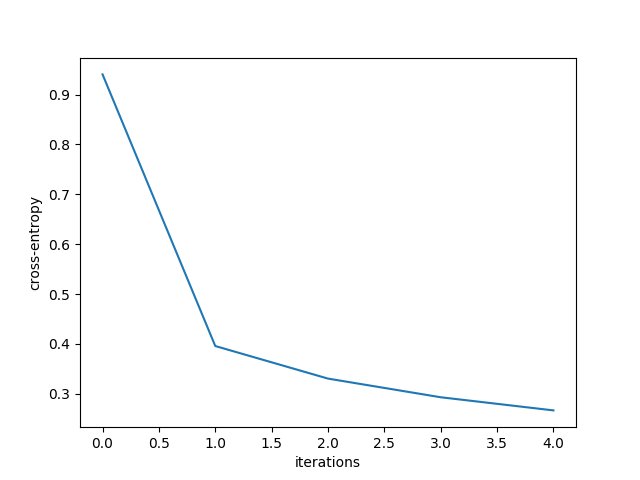
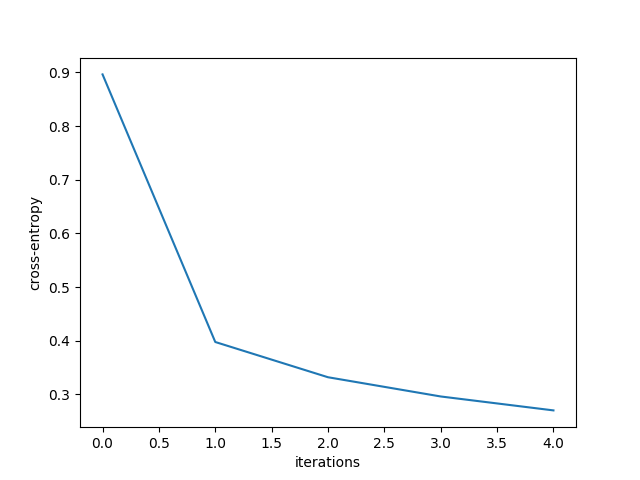
Project 2b3-2

diff --git a/CZ4042-Neural-Networks/Proj2/project2b_3_2.py b/CZ4042-Neural-Networks/Proj2/project2b_3_2.py
@@ -21,6 +21,18 @@ def init_weights(n_visible, n_hidden):
 def init_bias(n):
     return theano.shared(value=np.zeros(n,dtype=theano.config.floatX),borrow=True)
 
+#Momentum
+#Decay parameter ??
+def sgd_momentum(cost, params, lr=0.1, decay=0.0001, momentum=0.1):
+    grads = T.grad(cost=cost, wrt=params)
+    updates = []
+    for p, g in zip(params, grads):
+        v = theano.shared(p.get_value())
+        v_new = momentum*v - (g + decay*p) * lr
+        updates.append([p, p + v_new])
+        updates.append([v, v_new])
+        return updates
+
 trX, teX, trY, teY = mnist()
 
 trX, trY = trX[:12000], trY[:12000]
@@ -37,7 +49,8 @@ corruption_level=0.1
 training_epochs = 5
 learning_rate = 0.1
 batch_size = 128
-
+beta = 0.5
+rho = 0.05
 
 W1 = init_weights(28*28, 900)
 b1 = init_bias(900)
@@ -70,30 +83,35 @@ z2 = T.nnet.sigmoid(T.dot(y2, W2_prime) + b2_prime)
 y3 = T.nnet.sigmoid(T.dot(y2, W3) + b3)
 z3 = T.nnet.sigmoid(T.dot(y3, W3_prime) + b3_prime)
 
-cost1 = - T.mean(T.sum(x * T.log(z1) + (1 - x) * T.log(1 - z1), axis=1))
-cost2 = - T.mean(T.sum(y1 * T.log(z2) + (1 - y1) * T.log(1 - z2), axis=1))
-cost3 = - T.mean(T.sum(y2 * T.log(z3) + (1 - y2) * T.log(1 - z3), axis=1))
+
+cost1 = - T.mean(T.sum(x * T.log(z1) + (1 - x) * T.log(1 - z1), axis=1)) \
+				+ beta*T.shape(z1)[1]*(rho*T.log(rho) + (1-rho)*T.log(1-rho)) \
+				- beta*rho*T.sum(T.log(T.mean(z1, axis=0)+1e-6)) \
+				- beta*(1-rho)*T.sum(T.log(1-T.mean(z1, axis=0)+1e-6))
+
+cost2 = - T.mean(T.sum(y1 * T.log(z2) + (1 - y1) * T.log(1 - z2), axis=1)) \
+				+ beta*T.shape(z2)[1]*(rho*T.log(rho) + (1-rho)*T.log(1-rho)) \
+				- beta*rho*T.sum(T.log(T.mean(z2, axis=0)+1e-6)) \
+				- beta*(1-rho)*T.sum(T.log(1-T.mean(z2, axis=0)+1e-6))
+
+cost3 = - T.mean(T.sum(y2 * T.log(z3) + (1 - y2) * T.log(1 - z3), axis=1)) \
+				+ beta*T.shape(z1)[1]*(rho*T.log(rho) + (1-rho)*T.log(1-rho)) \
+				- beta*rho*T.sum(T.log(T.mean(z3, axis=0)+1e-6)) \
+				- beta*(1-rho)*T.sum(T.log(1-T.mean(z3, axis=0)+1e-6))
+
+
+
 
 params1 = [W1, b1, b1_prime]
-grads1 = T.grad(cost1, params1)
-
-updates1 = [(param1, param1 - learning_rate * grad1)
-           for param1, grad1 in zip(params1, grads1)]
+updates1 = sgd_momentum(cost1, params1)
 train_da1 = theano.function(inputs=[x], outputs = cost1, updates = updates1, allow_input_downcast = True)
 
-
 params2 = [W2, b2, b2_prime]
-grads2 = T.grad(cost2, params2)
-
-updates2 = [(param2, param2 - learning_rate * grad2)
-           for param2, grad2 in zip(params2, grads2)]
+updates2 = sgd_momentum(cost2, params2)
 train_da2 = theano.function(inputs=[x], outputs = cost2, updates = updates2, allow_input_downcast = True)
 
 params3 = [W3, b3, b3_prime]
-grads3 = T.grad(cost3, params3)
-
-updates3 = [(param3, param3 - learning_rate * grad3)
-           for param3, grad3 in zip(params3, grads3)]
+updates3 = sgd_momentum(cost3, params3)
 train_da3 = theano.function(inputs=[x], outputs = cost3, updates = updates3, allow_input_downcast = True)
 
 
